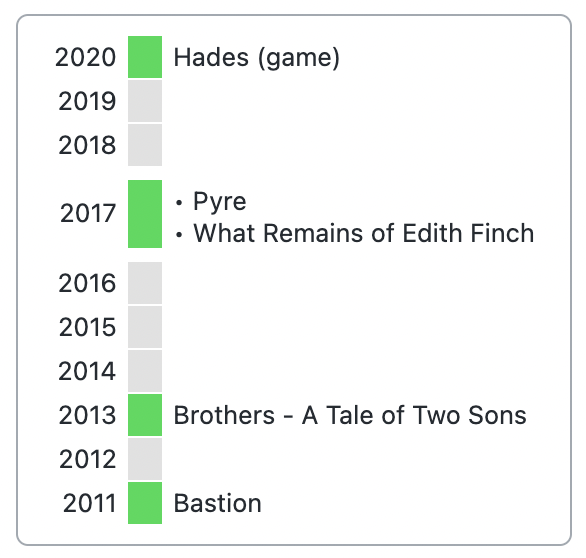
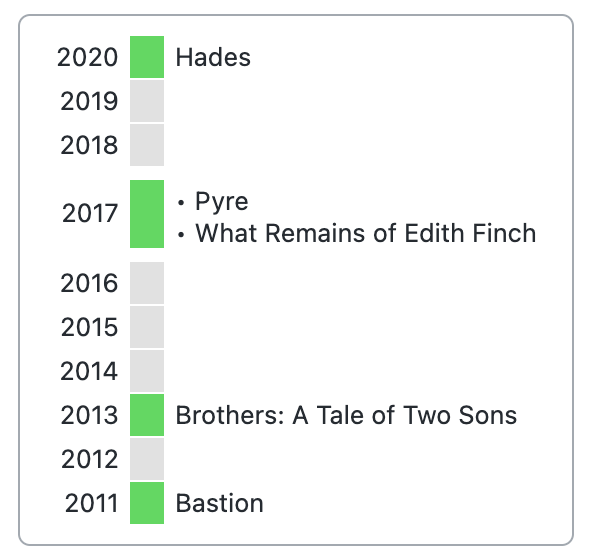
Added support for note aliases

diff --git a/functions.ts b/functions.ts
@@ -28,13 +28,13 @@ export default class HelpFunctions {
         return newTh;
     };
     
-    createRowItem( { val, cls } = {} ) {
+    createRowItem( { fileName, fileAlias, cls } = {} ) {
         const newTd = document.createElement("td");
         if ( typeof cls !== 'undefined' ) { newTd.setAttribute("class", cls) };
         newTd.classList.add("bullet-points");
         
-        const newLink = createEl("a", {cls: "internal-link", text: val});
-        newLink.setAttribute("data-href", val);
+        const newLink = createEl("a", {cls: "internal-link", text: fileAlias});
+        newLink.setAttribute("data-href", fileName);
         
         newTd.appendChild(newLink);
 
@@ -60,7 +60,7 @@ export default class HelpFunctions {
         return errorTbl;
     };
     
-    createTimelineTable(timeline) {
+    createTimelineTable(timeline, aliasName) {
     
         const newTbl = document.createElement("table");
         newTbl.classList.add("release-timeline")
@@ -86,9 +86,13 @@ export default class HelpFunctions {
     
         timeline.forEach(item => {
             
+            //year
             let key = item.key;
-            let value = item.rows.values.map(k => k.file.name).sort();
-    
+            //array of titles, sorted by name
+            //let value = item.rows.values.map(k => k.file.name).sort();
+
+            let value = item.rows.values.map(k => [k.file.name, typeof k[aliasName] !== 'undefined' ? k[aliasName] : k.file.name]);//.sort((a, b) => b[0] - a[0]);
+            
             //create separator if previous row was long
             if (isLongRow == 1) { newTbody.appendChild(this.createRowSeparator()) };
     
@@ -105,7 +109,7 @@ export default class HelpFunctions {
                     let yearRange = key > prevYear ? `${prevYear + 1} - ${key - 1}` : `${key + 1} - ${prevYear - 1}`;
     
                     const rowYear = this.createRowYear( { val: yearRange, cls: 'year-nonexisting' } );
-                    const rowItem = this.createRowItem( { val: "" } );
+                    const rowItem = this.createRowItem( { fileName: "", fileAlias: "" } );
                     const newRow = this.createNewRow(rowYear, rowItem);
                     newTbody.appendChild(newRow);
     
@@ -117,7 +121,7 @@ export default class HelpFunctions {
                     let i = (key > prevYear) ? prevYear + j : prevYear - j;
     
                     const rowYear = this.createRowYear( { val: i, cls: 'year-nonexisting' } );
-                    const rowItem = this.createRowItem( { val: "" } );
+                    const rowItem = this.createRowItem( { fileName: "", fileAlias: "" } );
                     const newRow = this.createNewRow(rowYear, rowItem);
                     newTbody.appendChild(newRow);
                     };
@@ -135,7 +139,7 @@ export default class HelpFunctions {
                 isLongRow = 0;
                 
                 const rowYear = this.createRowYear( { val: key, cls: 'year-existing' } );
-                const rowItem = this.createRowItem( { val: value[0] } );
+                const rowItem = this.createRowItem( { fileName: value[0][0], fileAlias: value[0][1] } );
                 const newRow = this.createNewRow(rowYear, rowItem);
                 newTbody.appendChild(newRow);
     
@@ -145,16 +149,17 @@ export default class HelpFunctions {
                 //create separator if prev row was short, but this one is long
                 if (isLongRow == 0) { newTbody.appendChild(this.createRowSeparator()); };
                 isLongRow = 1;
-    
+                
+                //create 1st row
                 const rowYear = this.createRowYear( { val: key, cls: 'year-existing', rowspanNb: value.length } );
-                const rowItem = this.createRowItem( { val: value[0], cls: "td-first" } );
+                const rowItem = this.createRowItem( { fileName: value[0][0], fileAlias: value[0][1], cls: "td-first" } );
                 const newRow = this.createNewRow(rowYear, rowItem);
                 newTbody.appendChild(newRow);
                 
                 //create 2nd+ rows
                 for (let i = 1; i < value.length; i++) {
     
-                    const rowItem = this.createRowItem( { val: value[i], cls: "td-next" } );
+                    const rowItem = this.createRowItem( { fileName: value[i][0], fileAlias: value[i][1], cls: "td-next" } );
                     const newRow = this.createNewRow(rowItem);
                     newTbody.appendChild(newRow);
     
@@ -183,7 +188,8 @@ export default class HelpFunctions {
     parseQueryYear(content: string) {
 
         let regExYear = /(?:table|table without id)?(.*?)(?=from)/;
-        let queryYearColumn = content.match(regExYear)[1].trim();
+        let queryYearColumnMatch = content.match(regExYear)[1].trim();
+        let queryYearColumn = queryYearColumnMatch.split(',')[0];
 
         return queryYearColumn;
     };
@@ -218,6 +224,21 @@ export default class HelpFunctions {
 
     };
 
+    parseAliasName(content: string) {
+
+        let regExAliasName = /(?:table|table without id)?,(.*?)(?=from)/;
+
+        let queryAliasMatch = content.match(regExAliasName);
+
+        if ( queryAliasMatch == null) {
+            return null;
+        }
+        else {
+            return content.match(regExAliasName)[1].trim();
+        }
+
+    }
+
     renderTimeline(content: string) {
 
         const dv = getAPI();
@@ -243,6 +264,8 @@ export default class HelpFunctions {
         //let queryWhere = this.parseQueryWhere(content);
                 
         let querySortOrder = this.parseQuerySortOrder(content);
+
+        let aliasName = this.parseAliasName(content);
         
         //get results from dataview
         try {
@@ -262,7 +285,7 @@ export default class HelpFunctions {
             return this.createErrorMsg("No results");
         }
         else {
-            return this.createTimelineTable(results);
+            return this.createTimelineTable(results, aliasName);
         }
 
     }
